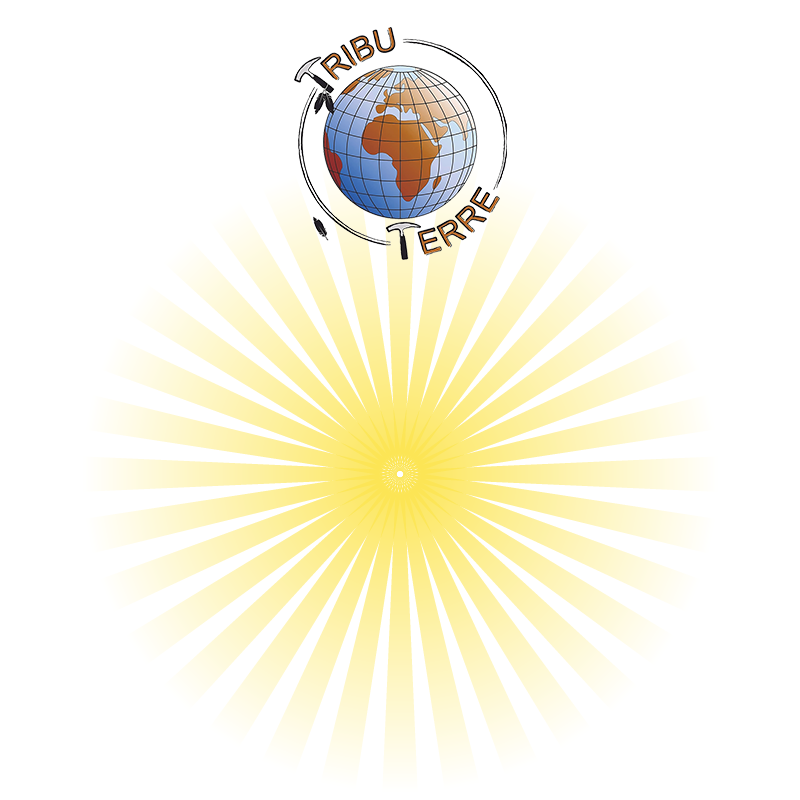
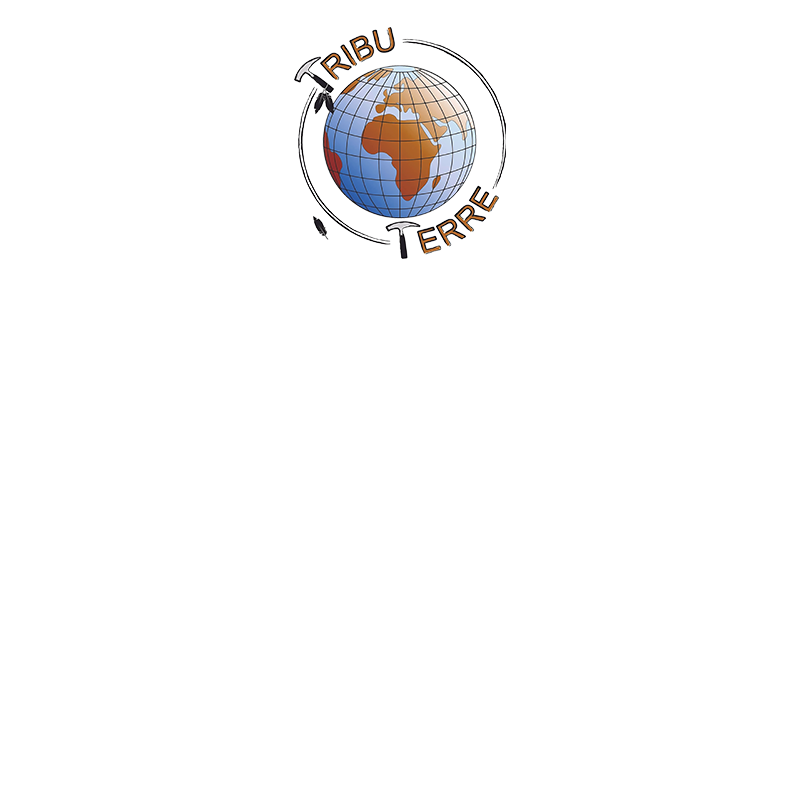
feat: Animation de la lueur des mandats histo.

Changed region(s): [[0.1562, 0.0312, 0.8438, 0.9375], [0.625, 0.125, 0.6562, 0.2188]]

diff --git a/association/historique/histo.css b/association/historique/histo.css
@@ -1,23 +1,27 @@
 .histo-logo > img {
     max-width: 33%;
-    box-shadow: none;
 }
 
 .histo-compo {
     position: relative;
     width: 100%;
+    overflow: hidden;
 }
 
 .histo-compo > .histo-compo-bg {
     position: relative;
     width: 100%;
     box-shadow: none;
+
+    z-index: 0;
 }
 
 .histo-compo > .histo-compo-fg {
     width: 48%;
     height: 48%;
     object-fit: cover;
+
+    z-index: 1;
 
     border-radius: 100%;
 
@@ -41,4 +45,33 @@
     height: 70%;
 
     border-radius: 10px;
+}
+
+.histo-compo > .histo-compo-lu {
+    width: 75%;
+    height: 75%;
+    object-fit: cover;
+    box-shadow: none;
+
+    z-index: -1;
+
+    border-radius: 100%;
+
+    position: absolute;
+    left: 0;
+    top: 0;
+    right: 0;
+    bottom: 0;
+    margin: auto;
+
+    animation: rotation 28s linear infinite;
+}
+
+@keyframes rotation {
+    from {
+        transform: rotate(0deg);
+    }
+    to {
+        transform: rotate(360deg);
+    }
 }

diff --git a/association/historique/gabarit.php b/association/historique/gabarit.php
@@ -43,6 +43,7 @@
         <div class="histo-compo">
             <img class="histo-compo-bg" src="/resources/png/fondMandatViolette.png" alt="Fond mandat violette">
             <img class="histo-compo-fg" style="top: 18%;" src="/resources/jpg/mandatViolette.jpg" alt="Photo mandat violette">
+            <img class="histo-compo-lu" style="top: 18%;" src="/resources/png/lueurMandat.png" alt="Lueur">
         </div>
         <hr>
         <h2>2021 - 2022 | Mandat Artichaut</h2>
@@ -50,6 +51,7 @@
         <div class="histo-compo">
             <img class="histo-compo-bg" src="/resources/png/fondMandatArtichaut.png" alt="Fond mandat artichaut">
             <img class="histo-compo-fg" style="top: 18%;" src="/resources/jpg/mandatArtichaut.jpg" alt="Photo mandat artichaut">
+            <img class="histo-compo-lu" style="top: 18%;" src="/resources/png/lueurMandat.png" alt="Lueur">
         </div>
         <hr>
         <h2>2020 - 2021</h2>
@@ -57,6 +59,7 @@
         <div class="histo-compo">
             <img class="histo-compo-bg" src="/resources/png/fondMandatAncien.png" alt="Fond mandat 2020-2021">
             <img class="histo-compo-fg" style="top: 18%;" src="/resources/jpg/mandat20202021.jpg" alt="Photo mandat 2020-2021">
+            <img class="histo-compo-lu" style="top: 18%;" src="/resources/png/lueurMandat.png" alt="Lueur">
         </div>
         <hr>
         <h2>2019 - 2020</h2>
@@ -64,6 +67,7 @@
         <div class="histo-compo">
             <img class="histo-compo-bg" src="/resources/png/fondMandatAncien.png" alt="Fond mandat 2019-2020">
             <img class="histo-compo-fg" style="top: 18%;" src="/resources/jpg/mandat20192020.jpg" alt="Photo mandat 2019-2020">
+            <img class="histo-compo-lu" style="top: 18%;" src="/resources/png/lueurMandat.png" alt="Lueur">
         </div>
         <hr>
         <h2>2018 - 2019</h2>
@@ -71,6 +75,7 @@
         <div class="histo-compo">
             <img class="histo-compo-bg" src="/resources/png/fondMandatAncien.png" alt="Fond mandat 2018-2019">
             <img class="histo-compo-fg" style="top: 18%;" src="/resources/jpg/mandat20182019.jpg" alt="Photo mandat 2018-2019">
+            <img class="histo-compo-lu" style="top: 18%;" src="/resources/png/lueurMandat.png" alt="Lueur">
         </div>
     </div>
     <div class="col-sm-2"></div>
